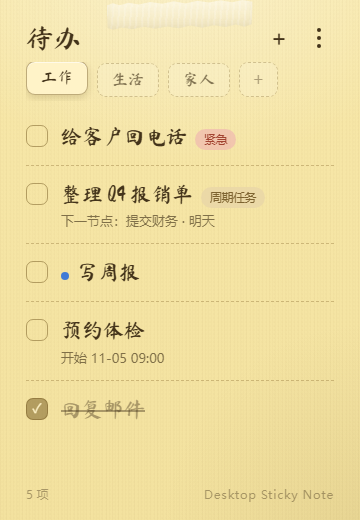
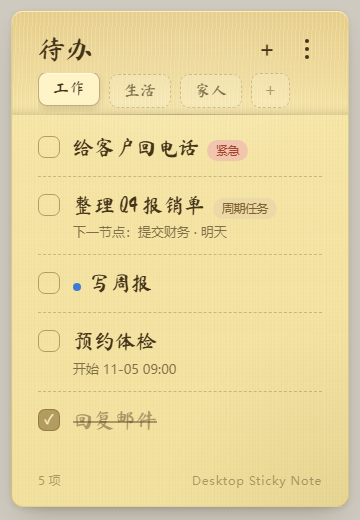
style: 恢复到圆角纸面，顶部改为独立顶栏并去掉位置选项
纸面恢复 1px 描边、12px 圆角与柔和外阴影（窗口透明承载）；顶部双面胶替换为深色顶栏，质地/颜色区别于纸面，承载标题、操作与分类标签；设置面板移除「位置」下拉，窗口位置沿用系统记忆。

diff --git a/src/styles.css b/src/styles.css
@@ -95,8 +95,8 @@ button {
 
   width: 100vw;
   height: 100vh;
-  padding: 0;
-  background: var(--paper);
+  padding: 10px 11px 13px;
+  background: transparent;
 }
 
 .theme-yellow { --paper: #f7e6a3; --paper-hi: #fff3c8; }
@@ -123,9 +123,12 @@ button {
     radial-gradient(85% 62% at 102% 104%, rgba(120, 92, 32, 0.1), transparent 68%),
     linear-gradient(180deg, rgba(255, 255, 255, 0.07), rgba(120, 92, 32, 0.03)),
     var(--paper);
-  border: 0;
-  border-radius: 0;
-  box-shadow: none;
+  border: 1px solid rgba(122, 96, 40, 0.2);
+  border-radius: 12px;
+  box-shadow:
+    0 12px 26px -12px rgba(58, 44, 16, 0.38),
+    0 2px 6px -2px rgba(58, 44, 16, 0.16),
+    inset 0 1px 0 rgba(255, 255, 255, 0.5);
   cursor: default;
 }
 
@@ -150,31 +153,39 @@ button {
   z-index: 1;
 }
 
-/* 顶部胶带：复用 .pin-shadow 元素 */
-.pin-shadow {
+/* 顶部横栏：质地比纸面更深一点的牛皮色，作为标题与分类的承载区 */
+.note-topbar {
   position: absolute;
   top: 0;
-  left: 50%;
-  width: 146px;
-  height: 30px;
-  margin-left: -73px;
+  right: 0;
+  left: 0;
+  height: 104px;
+  pointer-events: none;
   background:
-    repeating-linear-gradient(96deg, rgba(255, 255, 255, 0.22) 0 2px, rgba(255, 255, 255, 0) 2px 6px),
-    linear-gradient(180deg, rgba(255, 252, 240, 0.66), rgba(243, 234, 204, 0.5) 60%, rgba(230, 217, 180, 0.55)),
-    rgba(250, 243, 220, 0.42);
-  opacity: 0.86;
-  transform: rotate(-1.4deg);
-  filter: blur(0.25px);
+    repeating-linear-gradient(92deg, rgba(255, 255, 255, 0.16) 0 1px, rgba(255, 255, 255, 0) 1px 4px),
+    linear-gradient(180deg, rgba(214, 178, 96, 0.5), rgba(224, 192, 116, 0.26) 76%, rgba(224, 192, 116, 0));
+  border-radius: 11px 11px 0 0;
   box-shadow:
-    0 2px 5px rgba(80, 62, 24, 0.12),
-    inset 0 -4px 8px rgba(120, 98, 52, 0.08),
-    inset 0 1px 0 rgba(255, 255, 255, 0.5);
-  clip-path: polygon(
-    0 12%, 4% 5%, 9% 13%, 15% 5%, 22% 12%, 30% 4%, 38% 11%, 46% 4%, 54% 12%, 62% 4%,
-    70% 11%, 78% 4%, 86% 12%, 93% 5%, 100% 12%,
-    99% 87%, 94% 94%, 88% 86%, 81% 94%, 73% 87%, 65% 94%, 57% 86%, 49% 94%, 41% 87%,
-    33% 94%, 25% 86%, 17% 94%, 10% 87%, 4% 94%, 0 87%
-  );
+    inset 0 1px 0 rgba(255, 255, 255, 0.55),
+    inset 0 -10px 14px -12px rgba(90, 68, 20, 0.4);
+}
+
+.note-topbar::after {
+  position: absolute;
+  right: 22px;
+  bottom: 0;
+  left: 22px;
+  height: 1px;
+  content: "";
+  background: linear-gradient(90deg, rgba(122, 96, 40, 0), rgba(122, 96, 40, 0.34), rgba(122, 96, 40, 0));
+}
+
+.is-subview .note-topbar {
+  height: 62px;
+}
+
+.is-subview .content {
+  top: 74px;
 }
 
 /* --------------------------------------------------------------------------

diff --git a/src/components/AppMenu.vue b/src/components/AppMenu.vue
@@ -53,15 +53,6 @@
         </div>
       </div>
 
-      <label class="menu-row">
-        <span>位置</span>
-        <select :value="notePosition" @change="$emit('change-position', $event.target.value)">
-          <option v-for="position in positionOptions" :key="position.value" :value="position.value">
-            {{ position.label }}
-          </option>
-        </select>
-      </label>
-
       <label class="menu-toggle">
         <span>开机自启动</span>
         <input
@@ -86,7 +77,6 @@ defineProps({
   noteSize: { type: String, default: "medium" },
   noteTheme: { type: String, default: "yellow" },
   noteFont: { type: String, default: "xikai" },
-  notePosition: { type: String, default: "top-right" },
   autoStartEnabled: { type: Boolean, default: false },
 });
 
@@ -100,7 +90,6 @@ defineEmits([
   "change-size",
   "change-theme",
   "change-font",
-  "change-position",
   "change-auto-start",
 ]);
 
@@ -126,11 +115,4 @@ const themeOptions = [
   { label: "白色", value: "white", color: "#f5f1e4" },
 ];
 
-const positionOptions = [
-  { label: "居中", value: "center" },
-  { label: "右上", value: "top-right" },
-  { label: "右下", value: "bottom-right" },
-  { label: "左上", value: "top-left" },
-  { label: "左下", value: "bottom-left" },
-];
 </script>

diff --git a/src/App.vue b/src/App.vue
@@ -6,7 +6,7 @@
       data-tauri-drag-region
       @click="closeMenu"
     >
-      <div class="pin-shadow"></div>
+      <div class="note-topbar" aria-hidden="true"></div>
 
       <header class="note-header" data-tauri-drag-region>
         <button
@@ -42,7 +42,6 @@
         :note-size="noteSize"
         :note-theme="noteTheme"
         :note-font="noteFont"
-        :note-position="notePosition"
         :auto-start-enabled="autoStartEnabled"
         @history="openHistory"
         @recurring-settings="openRecurringSettings"
@@ -52,7 +51,6 @@
         @change-size="changeNoteSize"
         @change-theme="changeNoteTheme"
         @change-font="changeNoteFont"
-        @change-position="changeNotePosition"
         @change-auto-start="changeAutoStart"
         @minimize="minimizeWindow"
       />
@@ -567,7 +565,7 @@ import { eventText, taskStatus, taskStatusText } from "./lib/labels.js";
 import { productName } from "./lib/product-info.js";
 
 // 版本号按 AGENTS.md 在 App.vue 内维护，改应用代码后必须同步时间。
-const versionLabel = "v1.5.0 - 2026-11-03 22:03";
+const versionLabel = "v1.5.0 - 2026-11-03 22:12";
 
 const view = ref("home");
 const menuOpen = ref(false);

diff --git a/design/README.md b/design/README.md
@@ -169,6 +169,7 @@
 | 日期 | 变更 | 影响文件 |
 | --- | --- | --- |
 | 2026-11-03 | 细节校准：去掉纸张外阴影、胶带改为宽幅半透明撕边双面胶、纸张加入纤维纹理、任务勾选框改圆角方块、新增细楷字体（霞鹜文楷 Light）并默认细楷 | `src/styles.css`、`src/components/AppMenu.vue`、`src/composables/useNoteSettings.js` |
+| 2026-11-03 | 结构微调：纸面恢复圆角/描边/阴影（窗口透明承载外阴影）、顶部双面胶改为独立的深色顶栏（含标题与分类）、设置面板移除「位置」选项 | `src/styles.css`、`src/App.vue`、`src/components/AppMenu.vue`、`src-tauri/tauri.conf.json` |
 | 2026-11-03 | 外框与字体再校准：窗口改为不透明无边框无阴影（纸张铺满整窗）、去掉辨识度低的毛草字体改用霞鹜文楷 Light、确认弹窗与提示条统一纸色与手写标题、胶带改为贴顶柔和撕边 | `src/styles.css`、`src-tauri/tauri.conf.json`、`src/components/AppMenu.vue` |
 | 2026-11-03 | 02/03/05/06/07 稿落地：详情页胶囊操作与节点右对齐时间、新建页手写大输入与胶囊开关、周期规则行内编辑、分类当前标记与底部新增、设置面板色板/段控/字体选择；预览见 `design/preview/` | `src/App.vue`、`src/components/AppMenu.vue`、`src/styles.css` |
 | 2026-11-03 | 前端视觉按设计稿重写：内置三款手写体（毛笔楷书/行书/硬笔行书，OFL 许可并子集化）、纸张纹理与胶带重做、大字号手写标题与任务名、状态胶囊、分类卡片；主页任务行改为「标题 + 行内胶囊 + 虚线分隔」。字体文件位于 `src/assets/fonts/`，许可在 `third_party_licenses/` | `src/styles.css`、`src/App.vue`、`src/composables/useNoteSettings.js`、`src/components/AppMenu.vue` |

diff --git a/IMPLEMENTED_FEATURES.md b/IMPLEMENTED_FEATURES.md
@@ -127,7 +127,7 @@
 - 支持便签大小：小、中、大。
 - 支持便签主题：黄色、蓝色、绿色、粉红、白色。
 - 内置四款手写/书写字体（细楷、硬笔行书、毛笔楷书、行书）与系统楷体，可在菜单中切换，默认细楷；字体文件随安装包分发，许可见 `third_party_licenses/`。
-- 支持便签位置：居中、右上、右下、左上、左下。
+- 窗口位置使用系统记忆，不再在菜单中提供位置切换。
 - 支持开机自启动开关，使用当前 Windows 用户注册表启动项。
 - 窗口统一为无边框形态：只有便签纸张可见，系统标题栏不显示，任务栏入口保留（可最小化/关闭）。
 - 便签顶部为拖拽区域，右下角菜单内提供「最小化窗口」与「退出」。
